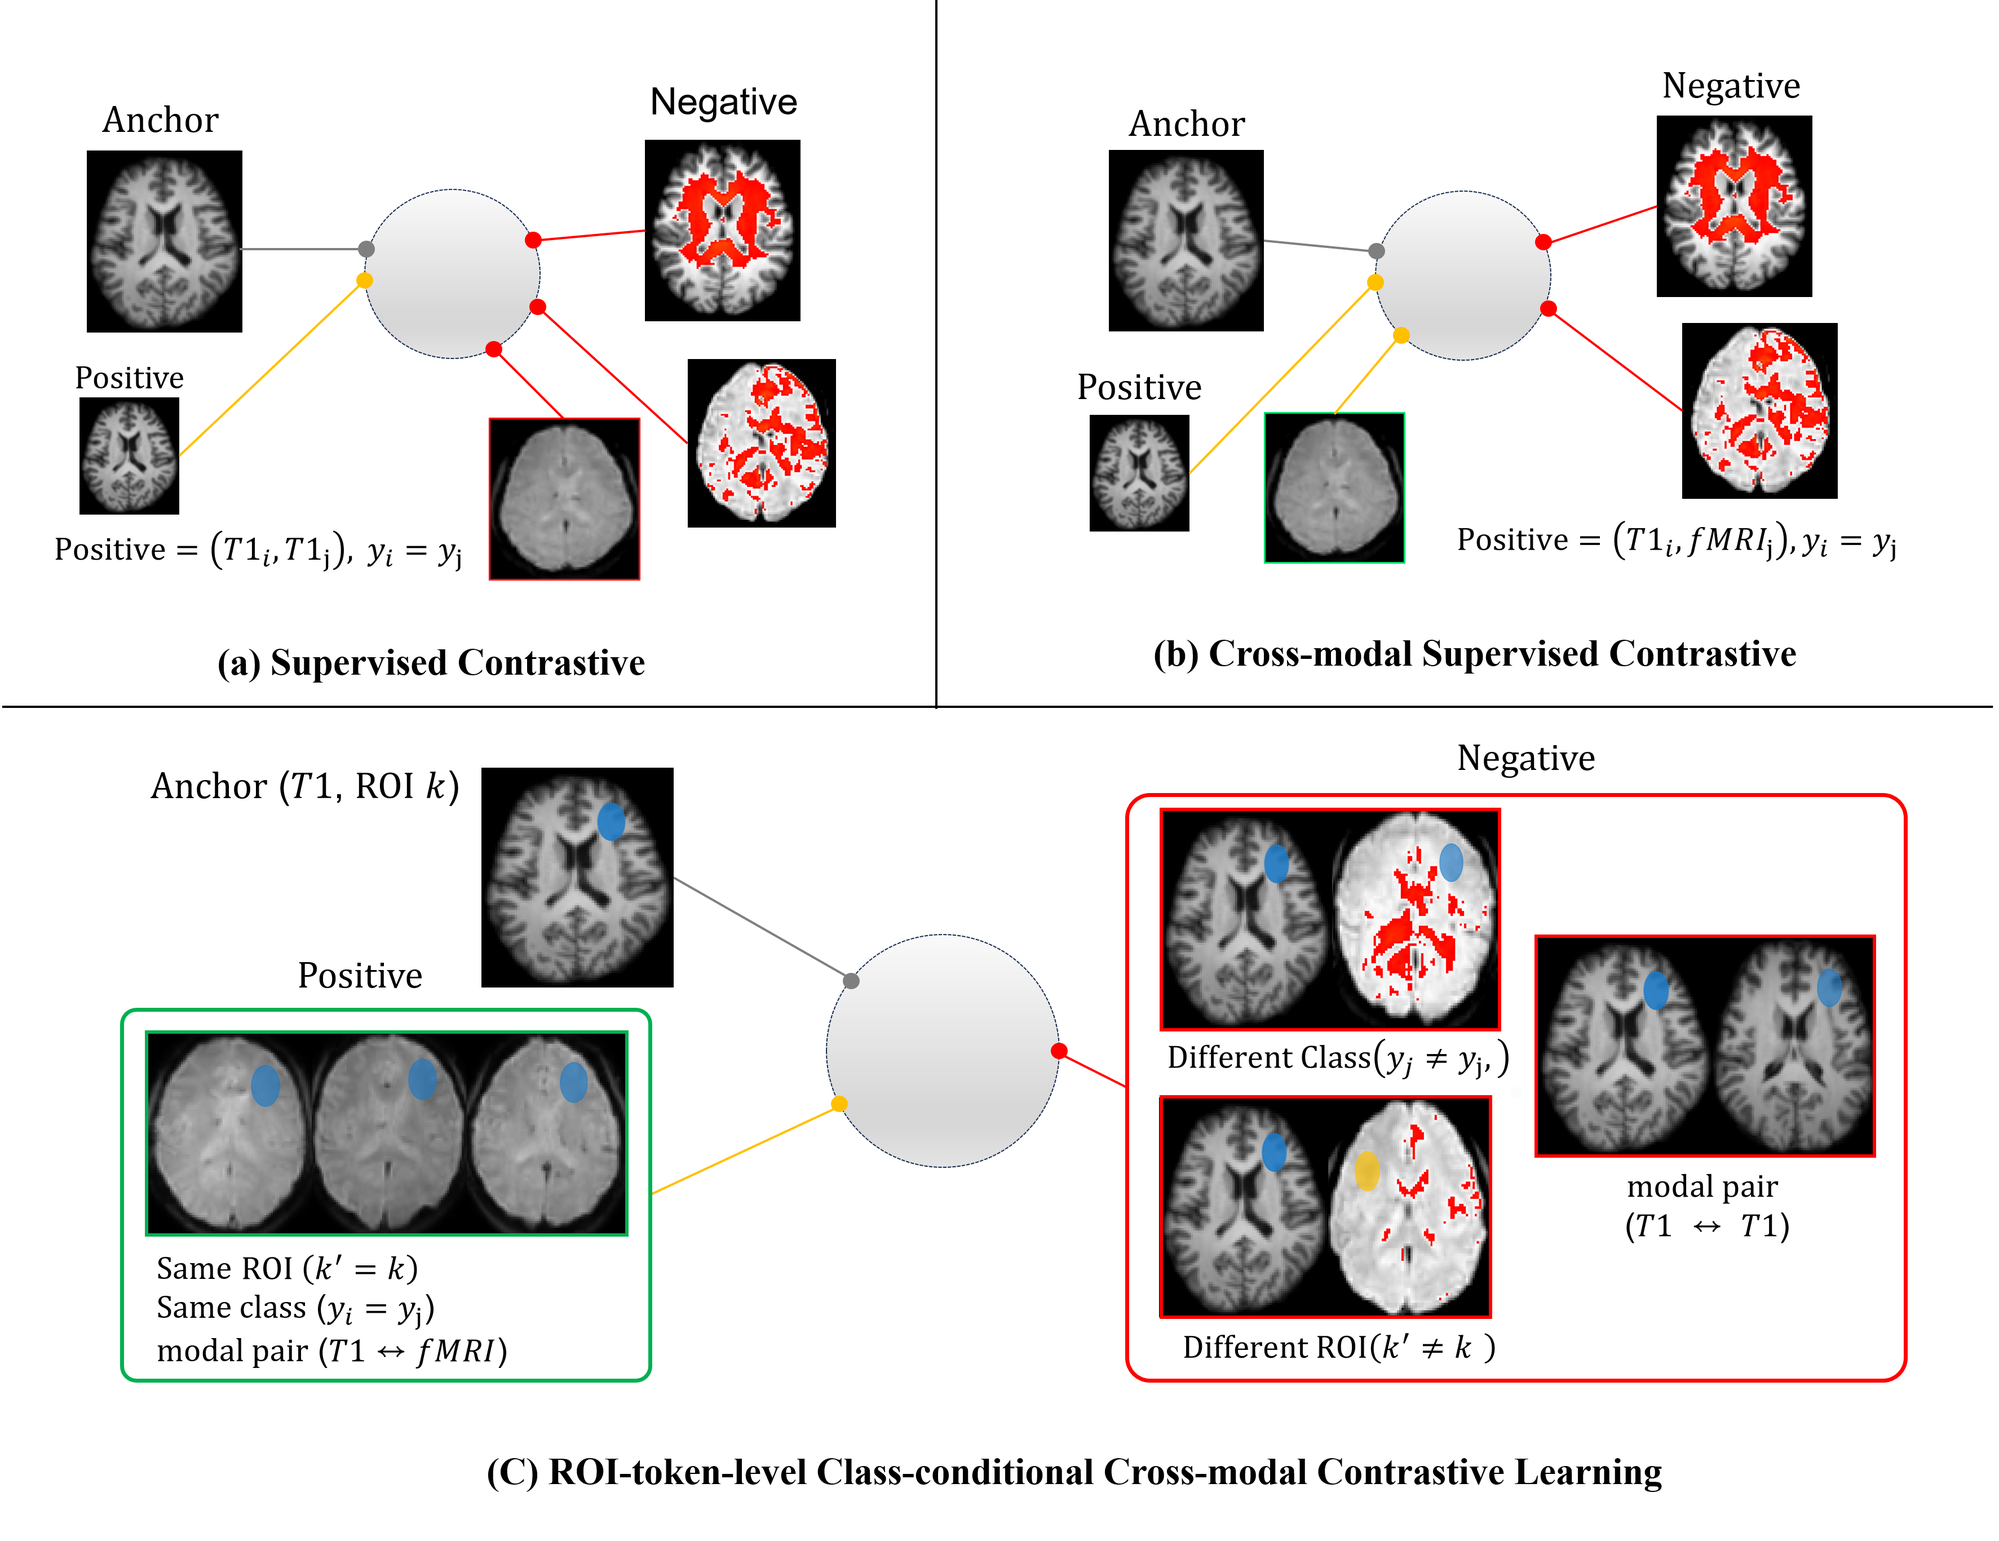
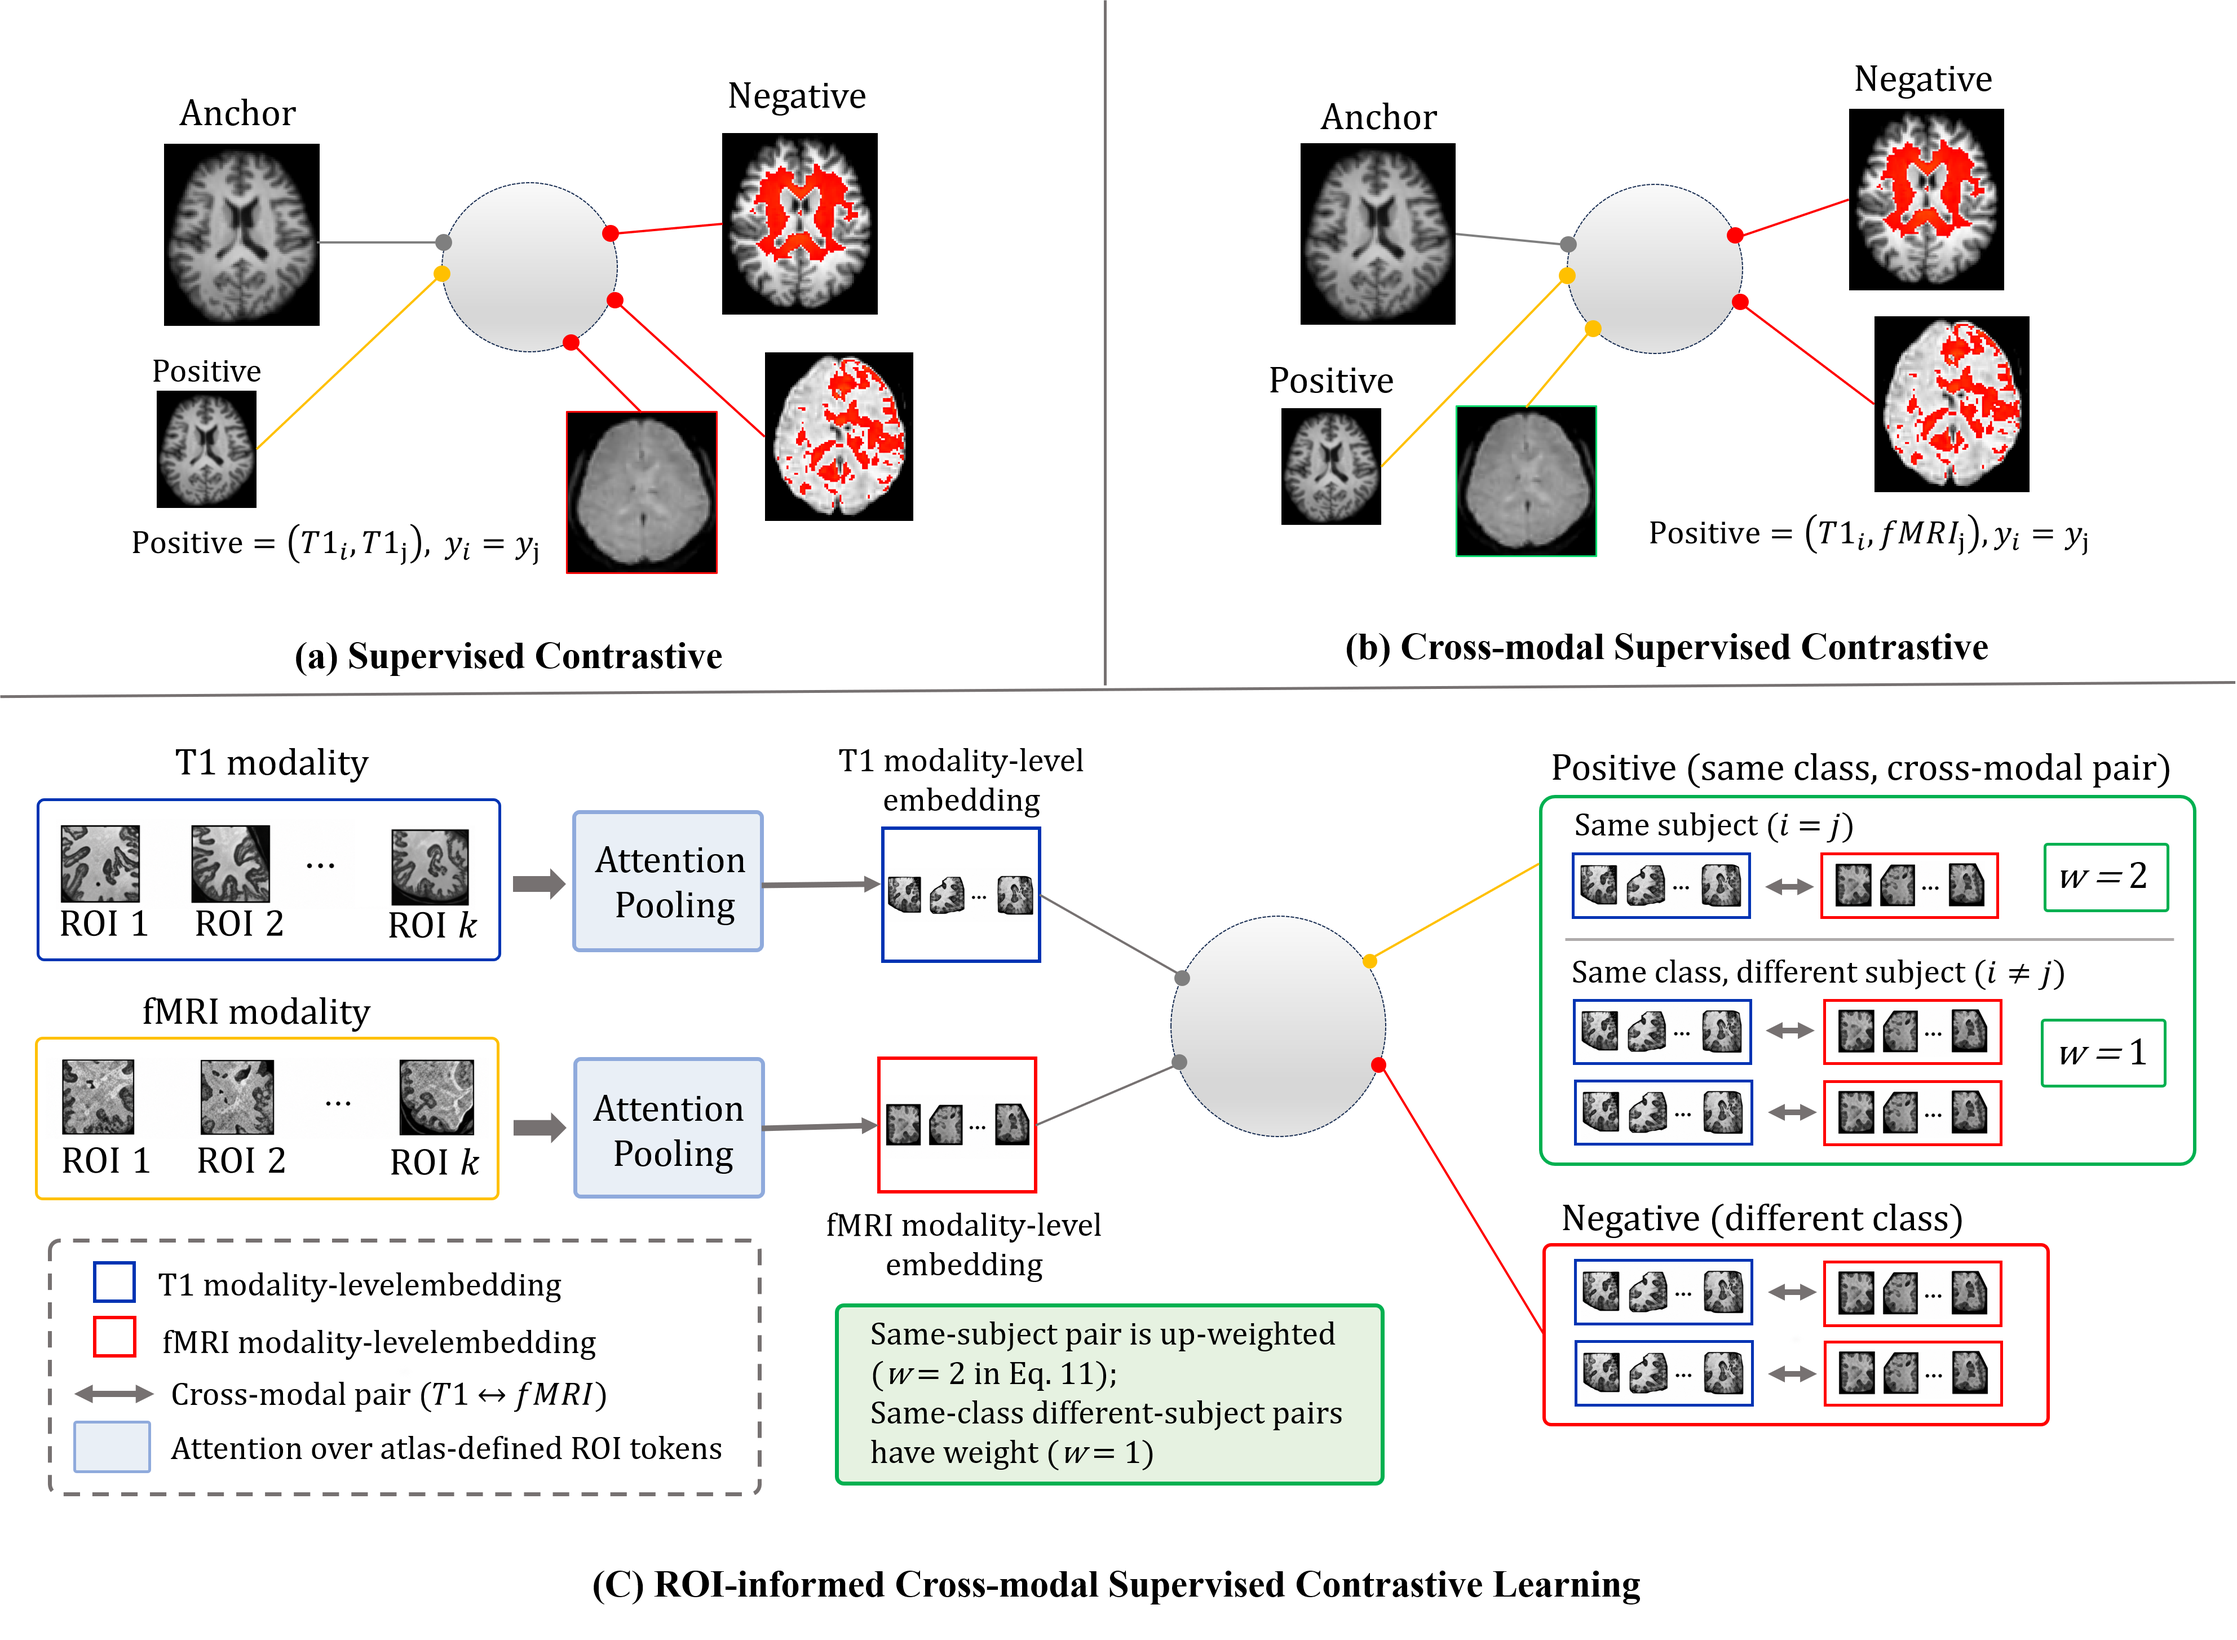
Update figures and results to match the revised manuscript
- Replace Figures 1-5 with the revised versions (ROI-informed pair
  construction; remove token-to-token ROI correspondence from Stage A)
- Rename the method from ROI-aligned/ROI-level to ROI-informed RCSCL
- Update performance tables to the revised manuscript values, including
  the added fusion baselines (LMF, MISA, MultiViT, ASFF)
- Add the fusion-agnostic RCSCL comparison (with vs. without RCSCL)

diff --git a/README.md b/README.md
@@ -1,10 +1,10 @@
 # ROI-informed Cross-modal Supervised Contrastive Learning for Multimodal Depression Risk Prediction
 
-Official implementation of **"ROI-level Cross-modal Supervised Contrastive Learning for Multimodal Depression Risk Prediction with rs-fMRI and T1 MRI"** (Medical Image Analysis).
+Official implementation of **"ROI-informed Cross-modal Supervised Contrastive Learning for Multimodal Depression Classification Using rs-fMRI and T1-weighted MRI"** (Medical Image Analysis).
 
 ## Overview
 
-We propose a two-stage multimodal framework incorporating **ROI-aligned Cross-modal Supervised Contrastive Learning (RCSCL)** that jointly leverages resting-state fMRI and T1-weighted MRI for depression-related classification. Using the Schaefer 200 parcellation atlas, anatomically aligned ROI tokens are extracted from both modalities and aligned in a shared embedding space under class-conditional contrastive constraints.
+We propose a two-stage multimodal framework built on **ROI-informed Cross-modal Supervised Contrastive Learning (RCSCL)** that jointly leverages resting-state fMRI and T1-weighted MRI for depression-related classification. ROI tokens are extracted from both modalities under a shared anatomical parcellation (Schaefer 200), aggregated into modality-level embeddings by attention pooling, and aligned in a shared embedding space under class-conditional cross-modal contrastive constraints. The objective does not impose explicit token-to-token ROI correspondence; the cross-modal pair from the same participant is up-weighted (w = 2) relative to same-class pairs from different participants (w = 1).
 
 <p align="center">
   <img src="figures/Figure_1.png" width="90%" alt="Overall Architecture"/>
@@ -12,8 +12,9 @@ We propose a two-stage multimodal framework incorporating **ROI-aligned Cross-mo
 
 ## Key Contributions
 
-- **ROI-aligned cross-modal contrastive learning**: Extracts common ROI tokens from both modalities using the Schaefer 200 atlas and aligns them via class-conditional cross-modal contrastive loss, going beyond global-fusion approaches.
-- **Dual-purpose encoder design**: Structural (3D ResNet-18) and functional (GAT) encoders simultaneously produce ROI-level tokens and global representations, enabling joint optimization of contrastive alignment and classification.
+- **ROI-informed cross-modal contrastive learning**: Extracts ROI tokens from both modalities under a shared atlas, pools them into modality-level embeddings, and aligns them with a class-conditional bidirectional cross-modal contrastive loss that combines subject-level and class-level supervision.
+- **Dual-purpose encoder design**: Structural (3D ResNet-18) and functional (GAT) encoders simultaneously produce ROI tokens and global representations, enabling joint optimization of contrastive alignment and classification.
+- **Fusion-agnostic objective**: RCSCL is applied before fusion, so it improves every fusion backbone evaluated (concatenation, attention, gated, LMF, MISA, MultiViT, ASFF).
 - **Consistent generalization**: Evaluated on two independent datasets (single-center in-house + multi-site SRPBS), with edge-, network-, and ROI-level visualization analyses.
 
 ## Architecture
@@ -49,20 +50,36 @@ MedicalNet: Pretrained weights for the 3D ResNet-18 structural encoder. The Medi
 
 ### Performance Comparison
 
-| Method | In-house AUC | SRPBS AUC |
-|--------|-------------|-----------|
-| GAT (fMRI only) | 0.741 | 0.679 |
-| MedicalNet ResNet (T1 only) | 0.764 | 0.707 |
-| Multimodal Attention | 0.805 | 0.736 |
-| **Attention + RCSCL (Ours)** | **0.855** | **0.766** |
+AUC (mean ± SD) over 5-fold cross-validation.
 
-### Ablation Study
+| Method | In-house (HDRS ≥ 14) | SRPBS (MDD vs HC) |
+|--------|---------------------|-------------------|
+| GAT (rs-fMRI) | 0.661 ± 0.08 | 0.649 ± 0.04 |
+| BrainGNN (rs-fMRI) | 0.724 ± 0.06 | 0.682 ± 0.04 |
+| Brain Network Transformer (rs-fMRI) | 0.741 ± 0.05 | 0.697 ± 0.04 |
+| 3D-ResNet (T1, MedicalNet pretraining) | 0.752 ± 0.03 | 0.710 ± 0.05 |
+| T1 + rs-fMRI (attention) | 0.805 ± 0.04 | 0.736 ± 0.03 |
+| T1 + rs-fMRI (MultiViT) | 0.842 ± 0.06 | 0.758 ± 0.04 |
+| T1 + rs-fMRI (ASFF) | 0.847 ± 0.05 | 0.762 ± 0.03 |
+| **T1 + rs-fMRI + RCSCL (attention)** | **0.855 ± 0.06** | **0.766 ± 0.02** |
+| T1 + rs-fMRI + RCSCL (MultiViT) | 0.858 ± 0.05 | 0.772 ± 0.04 |
+| T1 + rs-fMRI + RCSCL (ASFF) | 0.862 ± 0.05 | 0.775 ± 0.03 |
 
-| Contrastive Strategy | In-house AUC | SRPBS AUC |
-|---------------------|-------------|-----------|
-| No Contrastive | 0.805 | 0.736 |
-| Self-supervised Contrastive | 0.834 | 0.744 |
-| **RCSCL (Ours)** | **0.855** | **0.766** |
+### Fusion-agnostic Effect of RCSCL
+
+RCSCL is applied before fusion, so it can be combined with any fusion backbone.
+With encoders, inputs, splits, and the fusion module held fixed, adding RCSCL
+improves every backbone evaluated (in-house / SRPBS AUC).
+
+| Fusion backbone | w/o RCSCL | + RCSCL |
+|-----------------|-----------|---------|
+| Concatenation | 0.791 / 0.728 | 0.833 / 0.760 |
+| Attention | 0.805 / 0.736 | **0.855 / 0.766** |
+| Gated | 0.774 / 0.731 | 0.845 / 0.755 |
+| LMF | 0.817 / 0.742 | 0.846 / 0.766 |
+| MISA | 0.826 / 0.748 | 0.851 / 0.771 |
+| MultiViT | 0.842 / 0.758 | 0.858 / 0.772 |
+| ASFF | 0.847 / 0.762 | 0.862 / 0.775 |
 
 ## Visualization
 
@@ -84,8 +101,7 @@ Chord diagrams of attention-based edge importance aggregated at functional netwo
 Top-20 ROI importance maps showing class-wise differences in posterior cortical vs. prefrontal-limbic regions.
 
 <p align="center">
-  <img src="figures/figure5.png" width="45%" alt="Feature Importance (In-house)"/>
-  <img src="figures/figure6.png" width="45%" alt="Feature Importance (SRPBS)"/>
+  <img src="figures/figure5.png" width="80%" alt="Top-20 ROI importance maps"/>
 </p>
 
 ## Requirements
